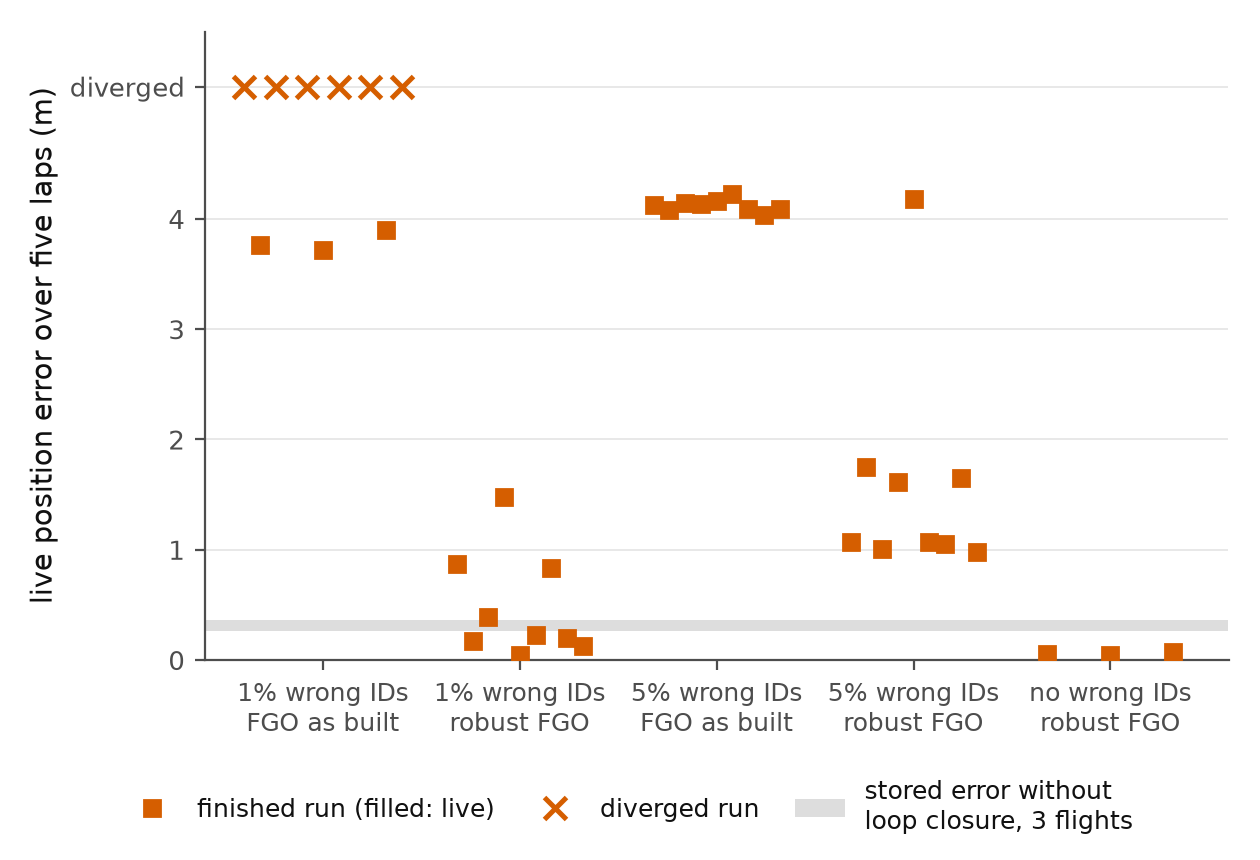
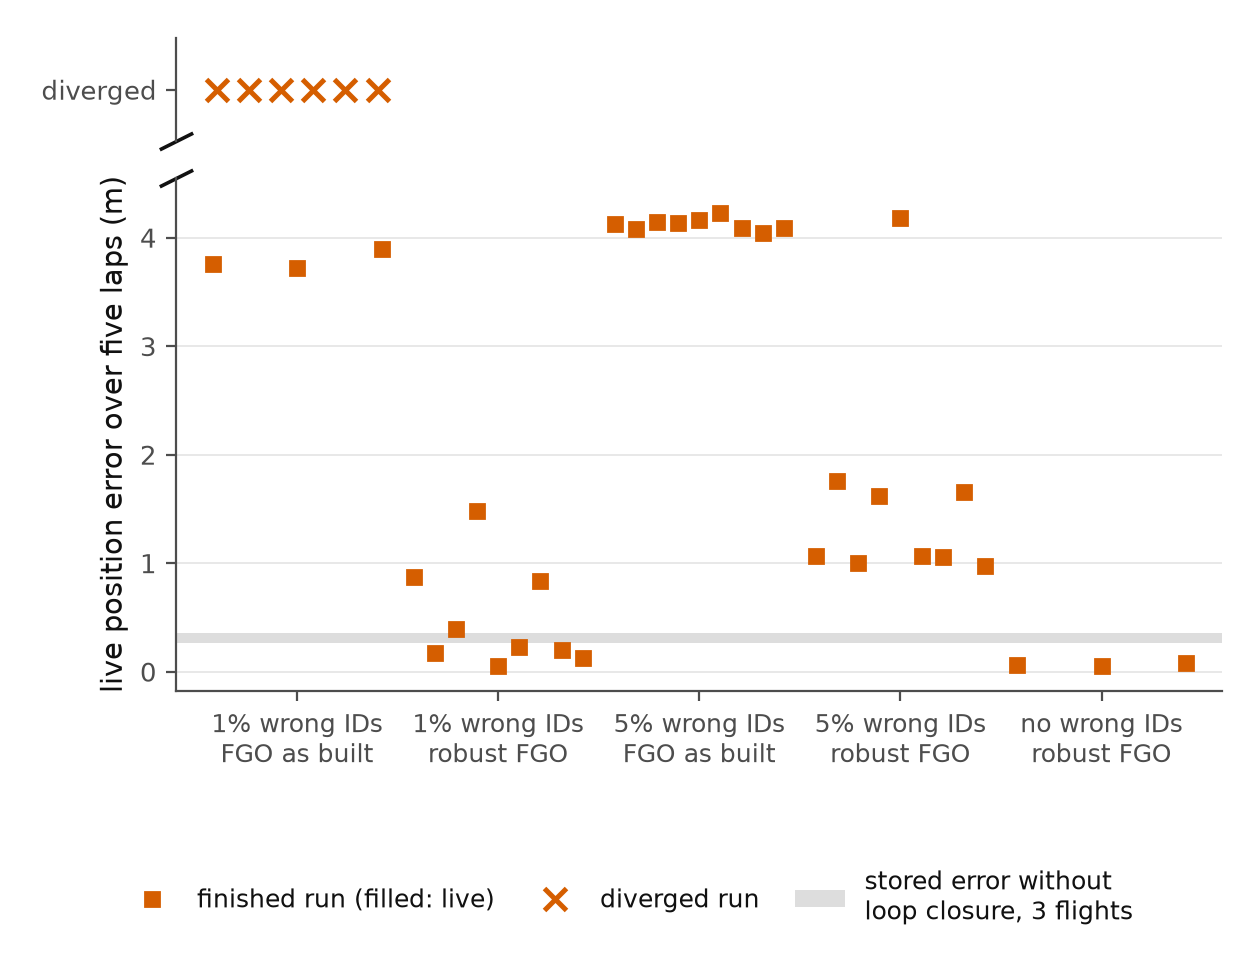
cand-c fix sweep round 2: C02 broken y-axis, live-square and spine-contact fixes
A zoomed re-check (crops, not just the full-size PNG) of the first fix
(804880f) found it was incomplete: the live squares in dense 9-run
columns still overlapped each other (the same defect class as the named
diverged-marker one), the lowest live squares sat on the x-axis spine,
and the "diverged" categorical row was a sixth tick on the same
continuous scale, not actually separated from the numeric range despite
reading that way in the prior handover text (now retracted).

C02 rewritten with a genuine broken y-axis: two stacked Axes sharing x
(GridSpec, height_ratios=[1, 5]), a drawn diagonal break mark at the
join (matplotlib's standard broken-axis recipe), live markers on a
wider span with a smaller marker size so dense columns no longer touch,
negative ylim headroom so low values clear the spine, and explicit
figure margins in place of tight_layout (which does not cooperate with
a manual GridSpec + fig.legend; caught before shipping by re-viewing
the render).

Documented C05/C06's coincident tag-map squares explicitly as data (the
FGO's own collapsed estimate), not a layout defect to fix.

82/82 checks pass; check_numbers_frozen.py PASSes; caption_verdict_check.py
unchanged at 24/24. Confirmed PDF-metadata-only diffs on C01/C05/C06/C07
for all four files (not just C01) and PNG byte-identity for the same four.

diff --git a/docs/handovers/2026-11-04_cand_c.md b/docs/handovers/2026-11-04_cand_c.md
@@ -210,76 +210,134 @@ was touched.
 - **C03/C04 stay markdown-only.** The coordinator renders them as table pages in the combined candidates PDF; no
   chart version of either was built.
 
-### Defect fixed: C02's diverged-run markers overlapped
+### Defect fixed: C02's diverged-run markers overlapped (and two related defects found on a zoomed re-check)
 
-**Symptom**: in the "1% wrong IDs, FGO as built (plain)" column, 6 of the 9 runs diverged and were drawn as "x"
-markers at the shared categorical "diverged" row (`YDIV`). All six were assigned x-positions from the same
-9-point `linspace(j - 0.32, j + 0.32, 9)` used for the live (finished) runs in that column, so the six diverged
-positions (indices 1, 2, 4, 5, 7, 8 of that linspace) had gaps as small as 0.08 data units -- visibly smaller
-than the marker width at this figure's scale, so several "x" marks rendered on top of each other and were not
-individually distinguishable.
+**Symptom (the one named in the brief)**: in the "1% wrong IDs, FGO as built (plain)" column, 6 of the 9 runs
+diverged and were drawn as "x" markers at the shared categorical "diverged" row (`YDIV`). All six were assigned
+x-positions from the same 9-point `linspace(j - 0.32, j + 0.32, 9)` used for the live (finished) runs in that
+column, so the six diverged positions (indices 1, 2, 4, 5, 7, 8 of that linspace) had gaps as small as 0.08 data
+units, visibly smaller than the marker width at this figure's scale, so several "x" marks rendered on top of
+each other and were not individually distinguishable.
 
-**Fix** (`eval/figs_cand_c.py`, the C02 plotting block): live and diverged runs within a column now get their own
-independent, deterministic horizontal spread instead of sharing index slots in one linspace over all runs in the
-group. Live runs keep the original `linspace(j - 0.32, j + 0.32, n_live)`; diverged runs get their own
-`linspace(j - 0.4, j + 0.4, n_diverged)` (falls back to a single point at `j` when a span can't be computed, i.e.
-0 or 1 runs of that kind). The wider diverged span still fits inside the 1.0-unit column pitch, so it stays clear
-of the neighbouring column at `j + 1` (whose live/diverged runs start no earlier than `j + 1 - 0.4 = j + 0.6`).
-Ordering is still the `runs3()` sort (alphabetical by run name), so which physical run lands at which x-position
-is deterministic and unchanged in meaning, just no longer sharing slots with the live subset.
+**First-pass fix** gave live and diverged runs their own independent linspans instead of sharing index slots, and
+was reviewed, committed (`804880f`) and handed back on the strength of viewing the full-size PNG. **That review
+was not thorough enough.** A second look (zoomed crops of the dense columns, the near-zero band and the left
+spine, not just the full-size image) found three more things the full-size view had hidden:
 
-Re-rendered and viewed `C02.png`: all six "x" markers in the affected column are now individually visible and
-separately spaced, with no overlap among themselves and no encroachment into the "1% wrong IDs, robust FGO"
-column. No other column in C02 has more than one diverged run (`arm (a) 5%`: 0 diverged; `arm (b)`, every rate:
-0 of 21 diverged -- see the `C0203` checks), so this was the only affected spot in the whole candidate set.
+1. **The live squares in dense 9-run columns still overlapped each other** -- the same defect class as the named
+   one, just with squares instead of "x" marks. "5% wrong IDs, FGO as built" has all 9 runs within 0.18 m of each
+   other (4.04-4.22 m) and rendered as one contiguous blob at the original `linspace(j - 0.32, j + 0.32, 9)`/`ms=6`
+   sizing.
+2. **The lowest live squares sat on the x-axis spine.** The "no wrong IDs" column (0.0484-0.0760 m) and the
+   lowest "1% wrong IDs, robust FGO" point (0.0496 m) are close enough to zero that, with `ax.set_ylim(0, ...)`,
+   the marker's own half-height crossed the spine line.
+3. **The "diverged" row was not actually visually separated from the numeric range**, despite the coordinator's
+   explicit ruling that this needs checking ("make sure it is"). The original fix kept it as a sixth y-tick
+   (`[0, 1, 2, 3, 4, YDIV]`) on the same continuous spine with the same gridline style as the numeric ticks, with
+   a gap (5.2 - 4.22 = 0.98) not much bigger than the regular 1.0 tick spacing -- at a glance it read as a sixth
+   numeric tick near "5", not a break. The handover's claim that this "reads as clearly separated" was wrong and
+   is retracted.
+
+**Second-pass fix** (`eval/figs_cand_c.py`, the whole C02 block rewritten):
+
+- **A genuine broken y-axis**, not a tick on a shared scale: two stacked `Axes` from one `GridSpec` (`height_ratios
+  =[1, 5]`, `hspace=0.12`), sharing x. The top `Axes` (`axd`) holds only the categorical "diverged" row (its own
+  `ylim=(0.5, 1.5)`, a single tick labelled "diverged", no x-axis of its own -- `tick_params(bottom=False,
+  labelbottom=False)`); the bottom `Axes` (`ax`) holds the numeric 0-4 data. `axd`'s bottom spine and `ax`'s top
+  spine are both hidden, and a short diagonal break mark (matplotlib's standard broken-axis recipe: a custom
+  2-vertex marker path drawn in each Axes' own `transAxes` fraction coordinates at the shared boundary) is drawn
+  on each side of the gap, independent of either Axes' data scale. This is what the coordinator's "e.g. a gap or a
+  break mark" line asks for literally, not a tick label doing the work alone.
+- **Live markers get a wider span and a smaller marker**: `linspace(j - 0.42, j + 0.42, n_live)` (was `+-0.32`) at
+  `ms=5` (was `ms=6`, matched in the legend handle), which clears the dense 9-run columns while the 0.42 half-span
+  still sits inside the 0.5-unit half-pitch needed to avoid touching column `j+1`.
+- **Headroom below zero**: `ax.set_ylim(-0.18, 4.55)` (was `(0, 5.7)`, with the diverged row no longer sharing
+  this axis at all) so the lowest live squares clear the spine with a visible gap instead of sitting on it.
+- **Explicit figure margins** (`gs = fig.add_gridspec(..., left=0.14, right=0.97, top=0.96, bottom=0.28)`, legend
+  `bbox_to_anchor=(0.5, 0.01)`) replace the previous `fig.tight_layout(rect=...)` call, which does not cooperate
+  with a manually-added `GridSpec` plus `fig.legend` (confirmed empirically: the first attempt at this layout,
+  still using `tight_layout`, rendered with the two-line x-tick labels overlapping the legend text -- caught by
+  viewing the re-render before committing, not shipped).
+
+Verified by zoomed crops (`PIL.Image.crop`, 3-4x upscale, read with the Read tool) of: the "5% wrong IDs, FGO as
+built" cluster (now 9 individually separated squares, no touching edges), the near-zero band across all five
+columns (every low-value square now has visible white space between it and the spine), and the left-spine break
+region (two parallel diagonal strokes with a clear gap between them, both the "diverged" row and the "4" tick
+visibly on separate axis segments). Also re-confirmed by crop that all six original "diverged" "x" marks remain
+individually distinguishable under the new layout. No other column in C02 has more than one diverged run (`arm
+(a) 5%`: 0 diverged; `arm (b)`, every rate: 0 of 21 diverged -- see the `C0203` checks), so the diverged-marker
+defect itself was always confined to the one column; the two newly-found defects (dense live squares, spine
+contact) affected several columns, listed above.
+
+### C05/C06: coincident tag-map squares are data, not a layout defect
+
+C05 panel (b) and C06 panel (a) (the two "collapsed" plain-FGO runs) show the FGO's final tag-map squares (open
+markers, `mfc=SURF`/`mec=C["FGO"]`, already hollow -- not solid-filled, so the convention "open = hindsight" the
+caption states is correctly represented) sitting close together and in C06 panel (a) overlapping. **This is the
+estimator's own output, not something this script's plotting code positions** -- `stats.json`'s `landmarks_final`
+for those two runs genuinely places several of the 8 estimated tags within centimetres of each other, which is
+exactly what "the final map is shrunk inward" / "the final map folded into a different arrangement" (the C05/C06
+captions' own wording) describes: the wrong-ID runs' optimiser converged several distinct tags onto nearly the
+same point. Jittering the plotted positions to separate them would misrepresent the estimate, so nothing was
+changed here; the markers are already open-outline so the true-tag diamond underneath each cluster stays visible
+through the overlap, and the clustering itself is the finding the figure exists to show.
 
 ### Full sweep against the fix-sweep checklist
 
-Re-ran the extraction step (`eval/figs_cand_c_extract.py` under `heavy.py`, since the cache is deleted by
-`figs_cand_c.py`'s own last step and nothing remained from the prior build) then the generator, and viewed every
-one of the 7 candidate PNGs directly (Read tool) against the checklist: no plot, marker cluster, legend, label or
-annotation overlapping data, another marker, a reference band or an axis line; no title, verdict word, check
-count, registered-window or "pre-registered" text, badge or explanatory note inside any figure; no bold in axes;
-legends outside the data or in genuinely empty space; even, exact tick labels; fonts 9-11 pt at 160 mm; linear
-axes throughout (C02's categorical "diverged" row sits above the numeric 0-4 range with a visible gap, not a
-break mark, and reads as clearly separated from the numeric axis); no em-dashes anywhere in captions, tables or
+Re-ran the extraction step (`eval/figs_cand_c_extract.py` under `heavy.py`, twice more across the two fix passes,
+since the cache is deleted by `figs_cand_c.py`'s own last step each time) then the generator, and viewed every one
+of the 7 candidate PNGs directly (Read tool, plus zoomed crops for C02 and the C05/C06 map clusters) against the
+checklist: no plot, marker cluster, legend, label or annotation overlapping data, another marker, a reference band
+or an axis line (C05/C06's coincident squares are a documented exception, data not layout, see above); no title,
+verdict word, check count, registered-window or "pre-registered" text, badge or explanatory note inside any
+figure; no bold in axes; legends outside the data or in genuinely empty space; even, exact tick labels; fonts
+9-11 pt at 160 mm (checked explicitly: every `fontsize=` call in the script is 9.0, and the only unset text uses
+`thesis_style.RCPARAMS`'s 9.5/10.5/11 values -- nothing exceeds 11 pt, and `save()`'s own assertion enforces the
+9 pt floor); linear axes throughout (`save()` asserts `get_xscale()`/`get_yscale() == "linear"` for every Axes in
+every figure, including C02's two now); C02's categorical "diverged" row is now a real broken axis with a drawn
+break mark, confirmed separated by zoomed crop, not merely claimed; no em-dashes anywhere in captions, tables or
 the index (`C03_table.md`/`C04_table.md` legitimately carry PASS/FAIL, per the coordinator's standing ruling that
 table-candidate files are the same genre as `TA_verdicts.md`); every caption ends with exactly one `Verdicts:`
 pointer line and contains no verdict words outside it.
 
-- **C01** (loop closure, fewer tags): unchanged from the previous build -- legend upper-left, boxes/mean lines
-  clear of each other and of the direct value labels, no collision.
-- **C02** (wrong tag IDs, every run): fixed as above; legend below the axes, grey reference band clear of the
-  lowest data points, diverged markers now all individually visible.
-- **C05/C06** (tag maps): unchanged -- panel labels are `(a)`/`(b)` only, shared legend below both panels, equal
-  scale and identical limits confirmed by eye on both panel pairs.
+- **C01** (loop closure, fewer tags): unchanged -- legend upper-left, boxes/mean lines clear of each other and of
+  the direct value labels, no collision.
+- **C02** (wrong tag IDs, every run): fixed as above (both passes); legend below the axes with explicit margins
+  (no overlap with the two-line x-tick labels), grey reference band clear of the lowest data points, all live and
+  diverged markers individually visible, genuine broken axis with a visible break mark.
+- **C05/C06** (tag maps): panel labels are `(a)`/`(b)` only, shared legend below both panels, equal scale and
+  identical limits confirmed by eye on both panel pairs; the one coincident-marker case is data, documented above,
+  not fixed.
 - **C07** (UKF vs FGO with landmark states): unchanged -- four-entry legend in two columns at top, bars/boxes
   clear of the legend and of each other.
 - **C03/C04** (markdown tables): re-read in full; no stray numbers outside the cross-checked set, no em-dash, the
   single footnote/note cell each carries states only what the table is, not coordinator-process commentary.
 
-No new defect found beyond the C02 fix above. `C01.pdf`/`C05.pdf`/`C06.pdf`/`C07.pdf` show as modified in `git
-status` purely from matplotlib's embedded `/CreationDate` metadata timestamp (confirmed byte-for-byte: `cmp`
-against the pre-fix blob differs only in that one date field, same file length); their PNGs are byte-identical to
-the pre-fix build (`git status` does not list them as changed), so no chart content changed for any candidate
+`C01.pdf`/`C05.pdf`/`C06.pdf`/`C07.pdf` show as modified in `git status` purely from matplotlib's embedded
+`/CreationDate` metadata timestamp -- verified for **all four**, not just C01 (byte comparison against the HEAD
+blob before this commit: each differs in exactly 4 bytes, all inside the `/CreationDate (D:...)` field, same file
+length as before). Their PNGs are confirmed byte-identical to the pre-this-commit build (`git diff --stat` on all
+four returns nothing; `git status` does not list them as changed), so no chart content changed for any candidate
 other than C02. `index_c.md` changed only in the commit hash it records itself as having been built at.
 
-### Checks run (final state)
+### Checks run (final state, after both fix passes)
 
-- `eval/figs_cand_c.py`'s own checks: **82/82** (unchanged total; the C02 fix is a layout change only, no check
-  added, removed or altered).
+- `eval/figs_cand_c.py`'s own checks: **82/82** (unchanged total across both passes; the C02 fixes are layout
+  changes only, no check added, removed or altered).
 - `python3 tools/check_numbers_frozen.py`: **PASS**.
 - `/home/makerspace/venv-evo/bin/python eval/caption_verdict_check.py`: **24/24** (9 caption files, 3 exempt
   A1-A3) -- unchanged from the pre-fix build.
-- Every candidate PNG viewed directly (Read tool) after the fix and the full re-run; no collisions, clipping,
-  leftover text, overlaps or axis-linearity issues found.
+- Every candidate PNG viewed directly (Read tool) after the final re-run, with zoomed crops of C02's dense
+  columns/near-zero band/break mark and the C05/C06 coincident-marker regions; no collisions, clipping, leftover
+  text, unexplained overlaps or axis-linearity issues found.
 - `pdfinfo` confirms every candidate PDF is still exactly 453.6 pt (160 mm) wide.
 
 ### Files touched this session
 
-`eval/figs_cand_c.py` (the C02 x-position fix), the regenerated `docs/thesis/figures_thesis/candidates/C0{1,2,5,
-6,7}.pdf` (C02.pdf has new content; C01/C05/C06/C07.pdf differ only in embedded creation-date metadata, confirmed
-by byte comparison), `C02.png` (new content; C01/C05/C06/C07.png are byte-identical to the pre-fix build and show
-no diff), `index_c.md` (commit-hash line only), and this handover file. `C03_table.md`, `C04_table.md` and every
-`captions/*.md` file are unchanged (re-read, not re-written, since `figs_cand_c.py`'s caption text does not
-depend on the C02 marker-layout code).
+`eval/figs_cand_c.py` (the C02 rewrite: independent live/diverged x-spreads, the broken-axis `GridSpec` layout,
+explicit margins in place of `tight_layout`), the regenerated `docs/thesis/figures_thesis/candidates/C0{1,2,5,
+6,7}.pdf` (C02.pdf has new content across both passes; C01/C05/C06/C07.pdf differ only in embedded creation-date
+metadata, confirmed by byte comparison for all four), `C02.png` (new content; C01/C05/C06/C07.png are confirmed
+byte-identical to the pre-this-commit build), `index_c.md` (commit-hash line only), and this handover file.
+`C03_table.md`, `C04_table.md` and every `captions/*.md` file are unchanged (re-read, not re-written, since
+`figs_cand_c.py`'s caption text does not depend on the C02 marker-layout code).

diff --git a/docs/thesis/figures_thesis/candidates/index_c.md b/docs/thesis/figures_thesis/candidates/index_c.md
@@ -1,6 +1,6 @@
 # Group C candidate thesis figures (decision D124): Extension E2, Extension E3 (including the tag maps) and Extension E5
 
-Built by eval/figs_cand_c.py at commit `848d7e8`, run with /home/makerspace/venv-evo/bin/python. The E3 tag maps (C05, C06) also need eval/figs_cand_c_extract.py, run once under heavy.py to cache /ground_truth/pose from the stored bags to ~/thesis_data/cand_c_cache (deleted once this script finishes). Stored outputs only throughout: no flight, estimator replay or simulation. Rules: 160 mm (6.30 in) wide, Okabe-Ito EKF3/UKF/FGO + grey truth, filled = live / open = hindsight, no titles, no verdict words, no badges or explanatory notes inside axes, no bold in axes, side-by-side panels only on a shared scale, every number in an exact cross-check (parsed rd(), SHA-pinned).
+Built by eval/figs_cand_c.py at commit `804880f`, run with /home/makerspace/venv-evo/bin/python. The E3 tag maps (C05, C06) also need eval/figs_cand_c_extract.py, run once under heavy.py to cache /ground_truth/pose from the stored bags to ~/thesis_data/cand_c_cache (deleted once this script finishes). Stored outputs only throughout: no flight, estimator replay or simulation. Rules: 160 mm (6.30 in) wide, Okabe-Ito EKF3/UKF/FGO + grey truth, filled = live / open = hindsight, no titles, no verdict words, no badges or explanatory notes inside axes, no bold in axes, side-by-side panels only on a shared scale, every number in an exact cross-check (parsed rd(), SHA-pinned).
 
 **Checks: 82/82 (exact string equality).**
 
